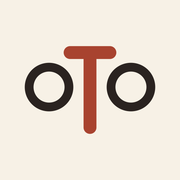
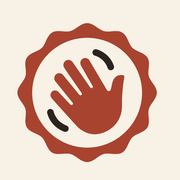
Update Thu 07/23/2026  4:03:54.19

Changed region(s): [[0.0833, 0.1111, 0.8889, 0.9167]]

diff --git a/index.html b/index.html
@@ -3,13 +3,13 @@
 <head>
 <meta charset="utf-8">
 <meta name="viewport" content="width=device-width, initial-scale=1">
-<title>oTo | Freedom for Them. Peace of Mind for You.</title>
-<meta name="description" content="oTo is one calm screen for someone you love in assisted living — they call family with a tap, tell you they're okay, and can always reach help. Family gets the check-ins and a nudge if a day goes quiet. No tracking, no subscription.">
-<link rel="canonical" href="https://otoshiyori.health/">
-<meta property="og:title" content="oTo — Freedom for them. Peace of mind for you.">
+<title>Wave | Freedom for Them. Peace of Mind for You.</title>
+<meta name="description" content="Wave is one calm screen for someone you love in assisted living — they call family with a tap, tell you they're okay, and can always reach help. Family gets the check-ins and a nudge if a day goes quiet. No tracking, no subscription.">
+<link rel="canonical" href="https://waveday.app/">
+<meta property="og:title" content="Wave — Freedom for them. Peace of mind for you.">
 <meta property="og:description" content="A dignity-first companion app for older adults. They call, they check in, they ask for help — on their terms. Family hears from them, free, with no subscription.">
-<meta property="og:image" content="https://otoshiyori.health/assets/img/og.png">
-<meta property="og:url" content="https://otoshiyori.health/">
+<meta property="og:image" content="https://waveday.app/assets/img/og.png">
+<meta property="og:url" content="https://waveday.app/">
 <meta property="og:type" content="website">
 <link rel="icon" type="image/png" sizes="32x32" href="/favicon-32x32.png">
 <meta name="theme-color" content="#f7f1e6">
@@ -19,15 +19,15 @@
 <link href="https://fonts.googleapis.com/css2?family=Outfit:wght@300;400;500;600;700;800;900&display=swap" rel="stylesheet">
 <script type="application/ld+json">
 { "@context": "https://schema.org", "@type": "FAQPage", "mainEntity": [
-  { "@type": "Question", "name": "Is oTo a monitoring app?",
-    "acceptedAnswer": { "@type": "Answer", "text": "No. oTo has no GPS, no location tracking, no camera watching, and no family dashboard of their activity. Everything family sees is something they sent — with one deliberate exception: if no check-in arrives by the hour the family chose, the circle is told that none arrived. Absence is the only thing oTo ever reports on its own." } },
+  { "@type": "Question", "name": "Is Wave a monitoring app?",
+    "acceptedAnswer": { "@type": "Answer", "text": "No. Wave has no GPS, no location tracking, no camera watching, and no family dashboard of their activity. Everything family sees is something they sent — with one deliberate exception: if no check-in arrives by the hour the family chose, the circle is told that none arrived. Absence is the only thing Wave ever reports on its own." } },
   { "@type": "Question", "name": "Does the family need the app too?",
-    "acceptedAnswer": { "@type": "Answer", "text": "Only the person who sets up the circle runs oTo on their own phone. Everyone else just confirms by email once and then receives notifications on any phone — no app, no account, no purchase." } },
-  { "@type": "Question", "name": "What does the oTo server store?",
+    "acceptedAnswer": { "@type": "Answer", "text": "Only the person who sets up the circle runs Wave on their own phone. Everyone else just confirms by email once and then receives notifications on any phone — no app, no account, no purchase." } },
+  { "@type": "Question", "name": "What does the Wave server store?",
     "acceptedAnswer": { "@type": "Answer", "text": "A circle id, hashed pairing tokens, their first name, timezone, the chosen worry window and check-in rhythm, family contact handles with each person's alert preference, and one timestamp of the last check-in. No location, no message contents, no contact books, no analytics." } },
   { "@type": "Question", "name": "Is there a subscription?",
-    "acceptedAnswer": { "@type": "Answer", "text": "No. oTo is a one-time purchase and the family channel — check-ins, missed check-in alerts and emergencies by notification or email — is included free, forever. Only optional text messages to relatives without smartphones are charged, at cost." } },
-  { "@type": "Question", "name": "Who is oTo for?",
+    "acceptedAnswer": { "@type": "Answer", "text": "No. Wave is a one-time purchase and the family channel — check-ins, missed check-in alerts and emergencies by notification or email — is included free, forever. Only optional text messages to relatives without smartphones are charged, at cost." } },
+  { "@type": "Question", "name": "Who is Wave for?",
     "acceptedAnswer": { "@type": "Answer", "text": "Older adults — especially in assisted living — and people with limited mobility or dexterity, plus the families who love them." } }
 ]}
 </script>
@@ -147,10 +147,6 @@
   .brand .bmark{width:36px;height:auto;flex:none;display:block}
   .foot-brand .brand .bmark{width:32px;height:auto}
   .hero .heromark{width:172px;height:auto;display:block;margin:0 auto 26px}
-  /* --- phone screenshots: warm-black bezel so cream shots read on cream --- */
-  .shotwrap{background:#2a2320;padding:9px;border-radius:30px;display:inline-block;line-height:0;
-    box-shadow:0 26px 60px -26px rgba(42,35,32,.55), 0 2px 0 rgba(255,255,255,.5) inset}
-  .shotimg{width:min(230px,72vw);height:auto;border-radius:22px;border:0;box-shadow:none;display:block}
 </style>
 </head>
 <body>
@@ -158,7 +154,7 @@
 <div class="announce">IN DEVELOPMENT · COMING TO GOOGLE PLAY · BUILT FOR SOMEONE WE LOVE</div>
 
 <nav><div class="navin">
-  <a class="brand" href="/"><svg class="bmark" viewBox="84 114 232 162" width="36" height="25" role="img" aria-label="oTo"><circle cx="130" cy="190" r="34" fill="none" stroke="#2a2320" stroke-width="15"/><circle cx="270" cy="190" r="34" fill="none" stroke="#2a2320" stroke-width="15"/><rect x="155" y="120" width="90" height="22" rx="11" fill="#a8432f"/><rect x="189" y="131" width="22" height="139" rx="11" fill="#a8432f"/></svg></a>
+  <a class="brand" href="/"><img class="bmark" src="/assets/img/mark.png" width="36" height="36" alt="Wave"></a>
   <div class="nav-r">
     <a href="#features">Features</a>
     <a href="#benefits">Why it's different</a>
@@ -168,8 +164,8 @@
 </div></nav>
 
 <header class="hero" id="top"><div class="wrap">
-  <svg class="heromark" viewBox="84 114 232 162" width="172" height="120" role="img" aria-label="oTo"><circle cx="130" cy="190" r="34" fill="none" stroke="#2a2320" stroke-width="15"/><circle cx="270" cy="190" r="34" fill="none" stroke="#2a2320" stroke-width="15"/><rect x="155" y="120" width="90" height="22" rx="11" fill="#a8432f"/><rect x="189" y="131" width="22" height="139" rx="11" fill="#a8432f"/></svg>
-  <div class="eyebrow">oTo · お年寄り</div>
+  <img class="heromark" src="/assets/img/mark.png" width="172" height="172" alt="Wave">
+  <div class="eyebrow">Wave · Check-in</div>
   <h1>Freedom for them. <em>Peace of mind</em> for you.</h1>
   <p class="sub">One calm screen for someone you love in assisted living. They call family with a tap, tell you they're okay, see their day, and can always reach help. You get the circle that hears them — and a nudge if a day goes quiet. No tracking, no subscription, ever.</p>
   <div class="cta"><span class="chip-soon"><i></i>In development — coming to Google Play</span></div>
@@ -200,7 +196,7 @@
       <h2>Family is one tap away.</h2>
       <p>No dialer, no contact list to navigate. Tap Daniel's face and it rings Daniel. Photos, never menus — built for older eyes and less steady hands.</p>
     </div>
-    <div class="fphone"><button class="shot-link" type="button" data-full="/assets/img/shot-home.webp" aria-label="Enlarge screenshot: oTo home screen: family call faces, I'm okay button, today's reminders"><span class="shotwrap"><img class="shotimg reveal-slide" src="/assets/img/shot-home.png" srcset="/assets/img/shot-home.webp" alt="oTo home screen: family call faces, I'm okay button, today's reminders" loading="lazy" width="460" height="818"></span></button></div>
+    <div class="fphone"><button class="shot-link" type="button" data-full="/assets/img/shot-home.webp" aria-label="Enlarge screenshot: Wave home screen: family call faces, I'm okay button, today's reminders"><img class="shotimg" src="/assets/img/shot-home.png" srcset="/assets/img/shot-home.webp" alt="Wave home screen: family call faces, I'm okay button, today's reminders" loading="lazy" width="460" height="818"></button></div>
   </div>
 
   <div class="feature flip reveal">
@@ -209,7 +205,7 @@
       <h2>They send it. You breathe.</h2>
       <p>One green tap and the family knows they're fine. They give the reassurance — they aren't tracked into it. That's the whole idea: they initiate, family receives.</p>
     </div>
-    <div class="fphone"><button class="shot-link" type="button" data-full="/assets/img/shot-home-sent.webp" aria-label="Enlarge screenshot: The I'm okay check-in sent — family knows they're fine"><span class="shotwrap"><img class="shotimg reveal-slide" src="/assets/img/shot-home-sent.png" srcset="/assets/img/shot-home-sent.webp" alt="The I'm okay check-in sent — family knows they're fine" loading="lazy" width="460" height="818"></span></button></div>
+    <div class="fphone"><button class="shot-link" type="button" data-full="/assets/img/shot-home-sent.webp" aria-label="Enlarge screenshot: The I'm okay check-in sent — family knows they're fine"><img class="shotimg" src="/assets/img/shot-home-sent.png" srcset="/assets/img/shot-home-sent.webp" alt="The I'm okay check-in sent — family knows they're fine" loading="lazy" width="460" height="818"></button></div>
   </div>
 
   <div class="feature reveal">
@@ -218,7 +214,7 @@
       <h2>Their day, on their terms.</h2>
       <p>Morning pills, tea with Margaret — gentle reminders under their control. Family can add to the day, but never invisibly: anything added is clearly labeled and can always be removed.</p>
     </div>
-    <div class="fphone"><button class="shot-link" type="button" data-full="/assets/img/shot-calling.webp" aria-label="Enlarge screenshot: Calling Daniel — one tap native call"><span class="shotwrap"><img class="shotimg reveal-slide" src="/assets/img/shot-calling.png" srcset="/assets/img/shot-calling.webp" alt="Calling Daniel — one tap native call" loading="lazy" width="460" height="818"></span></button></div>
+    <div class="fphone"><button class="shot-link" type="button" data-full="/assets/img/shot-calling.webp" aria-label="Enlarge screenshot: Calling Daniel — one tap native call"><img class="shotimg" src="/assets/img/shot-calling.png" srcset="/assets/img/shot-calling.webp" alt="Calling Daniel — one tap native call" loading="lazy" width="460" height="818"></button></div>
   </div>
 
   <div class="feature flip reveal">
@@ -227,7 +223,7 @@
       <h2>Help that can't misfire.</h2>
       <p>One clear button reaches a real person. A true emergency call is there too — always behind a calm confirm, so a stray tap never dials an ambulance. Real calls, through the phone's own dialer.</p>
     </div>
-    <div class="fphone"><button class="shot-link" type="button" data-full="/assets/img/shot-emergency.webp" aria-label="Enlarge screenshot: Emergency call confirmation screen — yes, call now, or cancel"><span class="shotwrap"><img class="shotimg reveal-slide" src="/assets/img/shot-emergency.png" srcset="/assets/img/shot-emergency.webp" alt="Emergency call confirmation screen — yes, call now, or cancel" loading="lazy" width="460" height="818"></span></button></div>
+    <div class="fphone"><button class="shot-link" type="button" data-full="/assets/img/shot-emergency.webp" aria-label="Enlarge screenshot: Emergency call confirmation screen — yes, call now, or cancel"><img class="shotimg" src="/assets/img/shot-emergency.png" srcset="/assets/img/shot-emergency.webp" alt="Emergency call confirmation screen — yes, call now, or cancel" loading="lazy" width="460" height="818"></button></div>
   </div>
 </div></section>
 
@@ -235,7 +231,7 @@
   <div class="sec-head reveal">
     <span class="eyebrow">The family circle</span>
     <h2>Two phones. One quiet thread.</h2>
-    <p>oTo runs on their phone and on yours. Theirs is the warm home screen. Yours sets up the circle — up to six people who hear from them, and hear if a day goes quiet.</p>
+    <p>Wave runs on their phone and on yours. Theirs is the warm home screen. Yours sets up the circle — up to six people who hear from them, and hear if a day goes quiet.</p>
   </div>
   <div class="steps">
     <div class="step reveal">
@@ -264,11 +260,11 @@
   <div class="sec-head reveal">
     <span class="eyebrow">Why it's different</span>
     <h2>Dignity is the product.</h2>
-    <p>Most "senior safety" apps quietly become surveillance the family loves and the person resents. oTo is built the other way up.</p>
+    <p>Most "senior safety" apps quietly become surveillance the family loves and the person resents. Wave is built the other way up.</p>
   </div>
   <div class="bens">
     <div class="ben reveal"><svg class="ico" viewBox="0 0 24 24" fill="none" stroke="currentColor" stroke-width="1.6" stroke-linecap="round" stroke-linejoin="round"><path d="M12 19V6"/><path d="M6.5 11.5 12 6l5.5 5.5"/><circle cx="12" cy="21" r="1.4"/></svg><h3>They initiate</h3><p>Every signal the family sees is one they sent themselves — the only exception is word that a quiet day stayed quiet. The safety net stays invisible until it's truly needed.</p></div>
-    <div class="ben reveal"><svg class="ico" viewBox="0 0 24 24" fill="none" stroke="currentColor" stroke-width="1.6" stroke-linecap="round" stroke-linejoin="round"><path d="M2 12s3.5-7 10-7 10 7 10 7-3.5 7-10 7S2 12 2 12z"/><path d="M4 4l16 16"/></svg><h3>No tracking</h3><p>No GPS, no location history, no camera watching, no activity dashboard. If it would feel like being watched, it isn't in oTo.</p></div>
+    <div class="ben reveal"><svg class="ico" viewBox="0 0 24 24" fill="none" stroke="currentColor" stroke-width="1.6" stroke-linecap="round" stroke-linejoin="round"><path d="M2 12s3.5-7 10-7 10 7 10 7-3.5 7-10 7S2 12 2 12z"/><path d="M4 4l16 16"/></svg><h3>No tracking</h3><p>No GPS, no location history, no camera watching, no activity dashboard. If it would feel like being watched, it isn't in Wave.</p></div>
     <div class="ben reveal"><svg class="ico" viewBox="0 0 24 24" fill="none" stroke="currentColor" stroke-width="1.6" stroke-linecap="round" stroke-linejoin="round"><path d="M3 7V5h10v2"/><path d="M8 5v14"/><path d="M5 19h6"/><path d="M15 12v-1h6v1"/><path d="M18 11v8"/><path d="M16 19h4"/></svg><h3>Big &amp; readable</h3><p>Large type, generous targets, high contrast, and lots of air. Built for older eyes and hands that aren't as steady as they were.</p></div>
     <div class="ben reveal"><svg class="ico" viewBox="0 0 24 24" fill="none" stroke="currentColor" stroke-width="1.6" stroke-linecap="round" stroke-linejoin="round"><path d="M5 4h4l2 5-2.5 1.5a11 11 0 0 0 5 5L15 13l5 2v4a1 1 0 0 1-1 1A16 16 0 0 1 4 5a1 1 0 0 1 1-1z"/></svg><h3>Real phone calls</h3><p>Calls go through the phone's own dialer — reliable, familiar, and they work even when the app doesn't.</p></div>
     <div class="ben reveal"><svg class="ico" viewBox="0 0 24 24" fill="none" stroke="currentColor" stroke-width="1.6" stroke-linecap="round" stroke-linejoin="round"><circle cx="9" cy="8" r="3"/><path d="M3 20a6 6 0 0 1 12 0"/><circle cx="17.5" cy="10" r="2.5"/><path d="M15 20a5 5 0 0 1 6.5-4.8"/></svg><h3>Family stays close</h3><p>Up to six people, each one having said yes by email first. What they get is a gentle "they're okay today" — and a nudge on a quiet morning. Peace of mind, not a monitoring console.</p></div>
@@ -281,27 +277,27 @@
     <span class="eyebrow">FAQ</span>
     <h2>Fair questions.</h2>
   </div>
-  <details class="faq"><summary>Is oTo a monitoring app?<span class="fx" aria-hidden="true"></span></summary><p>No. There's no GPS, no location tracking, and no dashboard of their activity. Everything family sees is something they sent — with one deliberate exception, and we'd rather name it than hide it: if no check-in has arrived by the hour you chose, the circle is told that none arrived. Absence is the only thing oTo ever reports on its own, and they know it works that way.</p></details>
-  <details class="faq"><summary>Does the family need the app too?<span class="fx" aria-hidden="true"></span></summary><p>Only the person setting up the circle runs oTo on their own phone. Everyone else confirms by email once, then gets notifications on whatever phone they already have — no app to install, no account, nothing to buy.</p></details>
-  <details class="faq"><summary>What does the oTo server store?<span class="fx" aria-hidden="true"></span></summary><p>Deliberately almost nothing: a circle id, hashed pairing tokens, their first name, timezone, the worry window and check-in rhythm you chose, family contact handles with each person's alert preference, and a single timestamp of the last check-in — overwritten, not a history. No location, no message contents, no contact books, no analytics. The full list is on our <a class="link" href="/privacy.html" style="color:var(--green)">privacy page</a>, published word for word.</p></details>
-  <details class="faq"><summary>Is there a subscription?<span class="fx" aria-hidden="true"></span></summary><p>No, and there won't be. oTo is bought once, and the family channel — check-ins, quiet-morning nudges, emergencies — is included free, forever. The only paid extra is text messages for relatives without a smartphone, passed through at what they cost us. An older adult talking to their family should never be metered.</p></details>
+  <details class="faq"><summary>Is Wave a monitoring app?<span class="fx" aria-hidden="true"></span></summary><p>No. There's no GPS, no location tracking, and no dashboard of their activity. Everything family sees is something they sent — with one deliberate exception, and we'd rather name it than hide it: if no check-in has arrived by the hour you chose, the circle is told that none arrived. Absence is the only thing Wave ever reports on its own, and they know it works that way.</p></details>
+  <details class="faq"><summary>Does the family need the app too?<span class="fx" aria-hidden="true"></span></summary><p>Only the person setting up the circle runs Wave on their own phone. Everyone else confirms by email once, then gets notifications on whatever phone they already have — no app to install, no account, nothing to buy.</p></details>
+  <details class="faq"><summary>What does the Wave server store?<span class="fx" aria-hidden="true"></span></summary><p>Deliberately almost nothing: a circle id, hashed pairing tokens, their first name, timezone, the worry window and check-in rhythm you chose, family contact handles with each person's alert preference, and a single timestamp of the last check-in — overwritten, not a history. No location, no message contents, no contact books, no analytics. The full list is on our <a class="link" href="/privacy.html" style="color:var(--green)">privacy page</a>, published word for word.</p></details>
+  <details class="faq"><summary>Is there a subscription?<span class="fx" aria-hidden="true"></span></summary><p>No, and there won't be. Wave is bought once, and the family channel — check-ins, quiet-morning nudges, emergencies — is included free, forever. The only paid extra is text messages for relatives without a smartphone, passed through at what they cost us. An older adult talking to their family should never be metered.</p></details>
   <details class="faq"><summary>Who sets up their schedule?<span class="fx" aria-hidden="true"></span></summary><p>They own it. Family can help — repeating things like medication get set up once, together — and anything family adds appears clearly labeled and can be removed. Nothing ever changes behind their back.</p></details>
   <details class="faq"><summary>What about real emergencies?<span class="fx" aria-hidden="true"></span></summary><p>The help button reaches a real person — family or the facility's nurse line. A true emergency-services call is there too, always behind a calm "are you sure?" confirm so an accidental tap never dials an ambulance.</p></details>
-  <details class="faq"><summary>Who is oTo for?<span class="fx" aria-hidden="true"></span></summary><p>Older adults — especially in assisted living — and people with limited mobility or dexterity, plus the families who love them. "Otoshiyori" (お年寄り) is Japanese for the elderly.</p></details>
-  <details class="faq"><summary>When can I get it?<span class="fx" aria-hidden="true"></span></summary><p>oTo is in development and will launch on Google Play. Write to <a href="mailto:support@ubersoft.pro" style="color:var(--green)">support@ubersoft.pro</a> and we'll tell you the moment it's ready.</p></details>
+  <details class="faq"><summary>Who is Wave for?<span class="fx" aria-hidden="true"></span></summary><p>Older adults — especially in assisted living — and people with limited mobility or dexterity, plus the families who love them. The name says it: the check-in is a wave — a simple hello that says I'm okay.</p></details>
+  <details class="faq"><summary>When can I get it?<span class="fx" aria-hidden="true"></span></summary><p>Wave is in development and will launch on Google Play. Write to <a href="mailto:support@ubersoft.pro" style="color:var(--green)">support@ubersoft.pro</a> and we'll tell you the moment it's ready.</p></details>
 </div></section>
 
 <section class="download"><div class="wrap">
-  <span class="eyebrow">Get oTo</span>
+  <span class="eyebrow">Get Wave</span>
   <h2>Coming to Google Play.</h2>
-  <p>oTo is being built right now — for a real grandparent, in a real assisted-living home. Want to know when it's ready?</p>
-  <div class="cta"><a class="nav-btn" href="mailto:support@ubersoft.pro?subject=Tell%20me%20when%20Oto%20is%20ready" style="padding:14px 26px">Tell me when it's ready</a></div>
+  <p>Wave is being built right now — for a real grandparent, in a real assisted-living home. Want to know when it's ready?</p>
+  <div class="cta"><a class="nav-btn" href="mailto:support@ubersoft.pro?subject=Tell%20me%20when%20Wave%20is%20ready" style="padding:14px 26px">Tell me when it's ready</a></div>
 </div></section>
 
 <footer><div class="wrap">
   <div class="foot-grid">
     <div class="foot-brand">
-      <a class="brand" href="/"><svg class="bmark" viewBox="84 114 232 162" width="36" height="25" role="img" aria-label="oTo"><circle cx="130" cy="190" r="34" fill="none" stroke="#2a2320" stroke-width="15"/><circle cx="270" cy="190" r="34" fill="none" stroke="#2a2320" stroke-width="15"/><rect x="155" y="120" width="90" height="22" rx="11" fill="#a8432f"/><rect x="189" y="131" width="22" height="139" rx="11" fill="#a8432f"/></svg></a>
+      <a class="brand" href="/"><img class="bmark" src="/assets/img/mark.png" width="36" height="36" alt="Wave"></a>
       <p>One calm screen for someone you love. They initiate, family receives — freedom for them, peace of mind for you.</p>
     </div>
     <div class="foot-col">
@@ -348,6 +344,6 @@
     document.addEventListener('keydown',function(e){if(e.key==='Escape'&&lb.classList.contains('open'))close();});
   })();</script>
 
-<script data-goatcounter="https://otoshiyori.goatcounter.com/count" async src="//gc.zgo.at/count.js"></script>
+<script data-goatcounter="https://waveday.goatcounter.com/count" async src="//gc.zgo.at/count.js"></script>
 </body>
 </html>

diff --git a/privacy.html b/privacy.html
@@ -3,9 +3,9 @@
 <head>
 <meta charset="utf-8">
 <meta name="viewport" content="width=device-width, initial-scale=1">
-<title>Privacy Policy | oTo</title>
-<meta name="description" content="oTo's privacy policy: no tracking, no location, no surveillance — and the complete, published list of what the family-circle server stores.">
-<link rel="canonical" href="https://otoshiyori.health/privacy.html">
+<title>Privacy Policy | Wave</title>
+<meta name="description" content="Wave's privacy policy: no tracking, no location, no surveillance — and the complete, published list of what the family-circle server stores.">
+<link rel="canonical" href="https://waveday.app/privacy.html">
 <link rel="icon" href="/favicon.ico" sizes="16x16 32x32 48x48">
 <link rel="icon" type="image/png" sizes="32x32" href="/favicon-32x32.png">
 <link rel="apple-touch-icon" href="/apple-touch-icon.png">
@@ -66,15 +66,11 @@
   .brand .bmark{width:36px;height:auto;flex:none;display:block}
   .foot-brand .brand .bmark{width:32px;height:auto}
   .hero .heromark{width:172px;height:auto;display:block;margin:0 auto 26px}
-  /* --- phone screenshots: warm-black bezel so cream shots read on cream --- */
-  .shotwrap{background:#2a2320;padding:9px;border-radius:30px;display:inline-block;line-height:0;
-    box-shadow:0 26px 60px -26px rgba(42,35,32,.55), 0 2px 0 rgba(255,255,255,.5) inset}
-  .shotimg{width:min(230px,72vw);height:auto;border-radius:22px;border:0;box-shadow:none;display:block}
 </style>
 </head>
 <body>
 <nav><div class="navin">
-  <a class="brand" href="/"><svg class="bmark" viewBox="84 114 232 162" width="36" height="25" role="img" aria-label="oTo"><circle cx="130" cy="190" r="34" fill="none" stroke="#2a2320" stroke-width="15"/><circle cx="270" cy="190" r="34" fill="none" stroke="#2a2320" stroke-width="15"/><rect x="155" y="120" width="90" height="22" rx="11" fill="#a8432f"/><rect x="189" y="131" width="22" height="139" rx="11" fill="#a8432f"/></svg></a>
+  <a class="brand" href="/"><img class="bmark" src="/assets/img/mark.png" width="36" height="36" alt="Wave"></a>
   <div class="nav-r">
     <a href="/#features">Features</a>
     <a href="/#benefits">Why it's different</a>
@@ -86,14 +82,14 @@
   <div class="wrap">
     <span class="eyebrow">Legal</span>
     <h1>Privacy Policy</h1>
-    <div class="meta">Effective date: <time datetime="2026-07-21">July 21, 2026</time> · Applies to the oTo app, the family circle, and otoshiyori.health</div>
+    <div class="meta">Effective date: <time datetime="2026-07-21">July 21, 2026</time> · Applies to the Wave app, the family circle, and waveday.app</div>
   </div>
 </header>
 
 <main class="wrap">
   <div class="legal">
 
-    <p class="lede">oTo (the "app") is built and published by Ubersoft ("we," "us," "our") on one rule: <b>they initiate, family receives.</b> The app does not track its user — no location, no monitoring, no surveillance. Everything a family member sees is something they sent — except one message the family can switch on: word that a check-in did not arrive.</p>
+    <p class="lede">Wave (the "app") is built and published by Ubersoft ("we," "us," "our") on one rule: <b>they initiate, family receives.</b> The app does not track its user — no location, no monitoring, no surveillance. Everything a family member sees is something they sent — except one message the family can switch on: word that a check-in did not arrive.</p>
 
     <div class="summary">
       <div class="st">In plain terms</div>
@@ -105,7 +101,7 @@
       </ul>
     </div>
 
-    <h2><span class="n">01</span> What oTo stores on the device</h2>
+    <h2><span class="n">01</span> What Wave stores on the device</h2>
     <ul class="body-list">
       <li>Their contacts (names, photos, phone numbers), their schedule, and their preferences — stored on the device.</li>
     </ul>
@@ -115,16 +111,16 @@
     <ul class="body-list">
       <li><b>Check-ins.</b> "I'm okay today" — sent because they tapped the button.</li>
       <li><b>Help requests.</b> When they confirm an emergency, the circle is told they pressed for help and called emergency services.</li>
-      <li><b>Missed check-ins.</b> If no check-in has arrived by the hour the family chose, the circle is told that none arrived. This is the one message oTo sends without them acting, and it is triggered by <i>absence</i> — never by watching them. It can be switched off.</li>
+      <li><b>Missed check-ins.</b> If no check-in has arrived by the hour the family chose, the circle is told that none arrived. This is the one message Wave sends without them acting, and it is triggered by <i>absence</i> — never by watching them. It can be switched off.</li>
     </ul>
     <p>Nothing else is transmitted. Messages carry their first name and what happened — never their location, and never the contents of anything else in the app.</p>
 
-    <h2><span class="n">03</span> What the oTo server stores</h2>
+    <h2><span class="n">03</span> What the Wave server stores</h2>
     <p>The family channel runs on a deliberately tiny server. This is the complete list of what it holds:</p>
     <ul class="body-list">
       <li>A circle id, and hashed pairing and device tokens.</li>
       <li>Their first name (so messages can say who they're from), timezone, the chosen worry window, and the check-in rhythm.</li>
-      <li>Family contact handles (phone or email) and each person's alert preferences, each verified before any message is sent — this exists to stop oTo from being used to message people who never agreed.</li>
+      <li>Family contact handles (phone or email) and each person's alert preferences, each verified before any message is sent — this exists to stop Wave from being used to message people who never agreed.</li>
       <li>A single <i>last check-in</i> timestamp, overwritten each time. Not a history.</li>
     </ul>
     <p>Nothing else: no location, no message bodies, no contact books, no analytics events. All of the app's own data — faces, schedule, settings — stays on their phone.</p>
@@ -132,7 +128,7 @@
     <h2><span class="n">04</span> Family members and consent</h2>
     <p>A circle holds up to six people. Each is added by name and contact handle, then receives one email and confirms from their own inbox before anything is ever sent to them. Declining deletes their address immediately. Family members need no account, no app, and no purchase, and can remove themselves at any time.</p>
 
-    <h2><span class="n">05</span> What oTo never collects</h2>
+    <h2><span class="n">05</span> What Wave never collects</h2>
     <ul class="body-list">
       <li>Location, movement, or GPS data of any kind.</li>
       <li>Ambient audio, video, photos, or screen activity.</li>
@@ -140,13 +136,13 @@
     </ul>
 
     <h2><span class="n">06</span> Calls and messages</h2>
-    <p>Calls placed from oTo go through the phone's own dialer or calling apps. oTo does not record, route, or listen to calls. Circle messages are delivered by web notification or email; optional text messages for relatives without a smartphone are sent through a carrier gateway, which sees only the number and the message text.</p>
+    <p>Calls placed from Wave go through the phone's own dialer or calling apps. Wave does not record, route, or listen to calls. Circle messages are delivered by web notification or email; optional text messages for relatives without a smartphone are sent through a carrier gateway, which sees only the number and the message text.</p>
 
     <h2><span class="n">07</span> This website</h2>
-    <p>otoshiyori.health uses privacy-friendly, cookieless page counting (GoatCounter) to see how many people visit. No personal profiles, no cross-site tracking, no ads.</p>
+    <p>waveday.app uses privacy-friendly, cookieless page counting (GoatCounter) to see how many people visit. No personal profiles, no cross-site tracking, no ads.</p>
 
     <h2><span class="n">08</span> Changes to this policy</h2>
-    <p>oTo is in active development; this policy will be updated as the app takes final shape, and material changes will be noted here with a new effective date.</p>
+    <p>Wave is in active development; this policy will be updated as the app takes final shape, and material changes will be noted here with a new effective date.</p>
 
     <h2><span class="n">09</span> Contact</h2>
     <p>Questions about privacy? Reach us at <a class="link" href="mailto:support@ubersoft.pro">support@ubersoft.pro</a>.</p>
@@ -157,7 +153,7 @@
 <footer><div class="wrap">
   <div class="foot-grid">
     <div class="foot-brand">
-      <a class="brand" href="/"><svg class="bmark" viewBox="84 114 232 162" width="36" height="25" role="img" aria-label="oTo"><circle cx="130" cy="190" r="34" fill="none" stroke="#2a2320" stroke-width="15"/><circle cx="270" cy="190" r="34" fill="none" stroke="#2a2320" stroke-width="15"/><rect x="155" y="120" width="90" height="22" rx="11" fill="#a8432f"/><rect x="189" y="131" width="22" height="139" rx="11" fill="#a8432f"/></svg></a>
+      <a class="brand" href="/"><img class="bmark" src="/assets/img/mark.png" width="36" height="36" alt="Wave"></a>
       <p>One calm screen for someone you love. They initiate, family receives — freedom for them, peace of mind for you.</p>
     </div>
     <div class="foot-col">
@@ -182,6 +178,6 @@
   </p>
 </div></footer>
 <script>(function(){var el=document.getElementById('cpyear');if(el){var s=2026,n=new Date().getFullYear();el.textContent=(n>s)?(s+'–'+n):(''+s);}})();</script>
-<script data-goatcounter="https://otoshiyori.goatcounter.com/count" async src="//gc.zgo.at/count.js"></script>
+<script data-goatcounter="https://waveday.goatcounter.com/count" async src="//gc.zgo.at/count.js"></script>
 </body>
 </html>

diff --git a/download.html b/download.html
@@ -3,9 +3,9 @@
 <head>
 <meta charset="utf-8">
 <meta name="viewport" content="width=device-width, initial-scale=1">
-<title>Get oTo | Coming to Google Play</title>
-<meta name="description" content="oTo is in development and coming to Google Play. Ask us to tell you when it's ready.">
-<link rel="canonical" href="https://otoshiyori.health/download.html">
+<title>Get Wave | Coming to Google Play</title>
+<meta name="description" content="Wave is in development and coming to Google Play. Ask us to tell you when it's ready.">
+<link rel="canonical" href="https://waveday.app/download.html">
 <link rel="icon" type="image/png" sizes="32x32" href="/favicon-32x32.png">
 <meta name="theme-color" content="#f7f1e6">
 <link rel="apple-touch-icon" href="/apple-touch-icon.png">
@@ -47,15 +47,11 @@
   .brand .bmark{width:36px;height:auto;flex:none;display:block}
   .foot-brand .brand .bmark{width:32px;height:auto}
   .hero .heromark{width:172px;height:auto;display:block;margin:0 auto 26px}
-  /* --- phone screenshots: warm-black bezel so cream shots read on cream --- */
-  .shotwrap{background:#2a2320;padding:9px;border-radius:30px;display:inline-block;line-height:0;
-    box-shadow:0 26px 60px -26px rgba(42,35,32,.55), 0 2px 0 rgba(255,255,255,.5) inset}
-  .shotimg{width:min(230px,72vw);height:auto;border-radius:22px;border:0;box-shadow:none;display:block}
 </style>
 </head>
 <body>
 <nav><div class="navin">
-  <a class="brand" href="/"><svg class="bmark" viewBox="84 114 232 162" width="36" height="25" role="img" aria-label="oTo"><circle cx="130" cy="190" r="34" fill="none" stroke="#2a2320" stroke-width="15"/><circle cx="270" cy="190" r="34" fill="none" stroke="#2a2320" stroke-width="15"/><rect x="155" y="120" width="90" height="22" rx="11" fill="#a8432f"/><rect x="189" y="131" width="22" height="139" rx="11" fill="#a8432f"/></svg></a>
+  <a class="brand" href="/"><img class="bmark" src="/assets/img/mark.png" width="36" height="36" alt="Wave"></a>
   <div class="nav-r">
     <a href="/#features">Features</a>
     <a href="/#benefits">Why it's different</a>
@@ -64,18 +60,18 @@
 </div></nav>
 
 <main>
-  <svg class="heromark" viewBox="84 114 232 162" width="172" height="120" role="img" aria-label="oTo"><circle cx="130" cy="190" r="34" fill="none" stroke="#2a2320" stroke-width="15"/><circle cx="270" cy="190" r="34" fill="none" stroke="#2a2320" stroke-width="15"/><rect x="155" y="120" width="90" height="22" rx="11" fill="#a8432f"/><rect x="189" y="131" width="22" height="139" rx="11" fill="#a8432f"/></svg>
-  <div class="eyebrow">Get oTo</div>
+  <img class="heromark" src="/assets/img/mark.png" width="172" height="172" alt="Wave">
+  <div class="eyebrow">Get Wave</div>
   <h1>Coming to Google Play.</h1>
-  <p class="sub">oTo is in development — being built for a real grandparent in a real assisted-living home, and for everyone like them. When it's ready, it will be here.</p>
+  <p class="sub">Wave is in development — being built for a real grandparent in a real assisted-living home, and for everyone like them. When it's ready, it will be here.</p>
   <div><span class="chip-soon"><i></i>In development</span></div>
-  <div><a class="btn" href="mailto:support@ubersoft.pro?subject=Tell%20me%20when%20Oto%20is%20ready">Tell me when it's ready</a></div>
+  <div><a class="btn" href="mailto:support@ubersoft.pro?subject=Tell%20me%20when%20Wave%20is%20ready">Tell me when it's ready</a></div>
 </main>
 
 <footer><div class="wrap">
   <div class="foot-grid">
     <div class="foot-brand">
-      <a class="brand" href="/"><svg class="bmark" viewBox="84 114 232 162" width="36" height="25" role="img" aria-label="oTo"><circle cx="130" cy="190" r="34" fill="none" stroke="#2a2320" stroke-width="15"/><circle cx="270" cy="190" r="34" fill="none" stroke="#2a2320" stroke-width="15"/><rect x="155" y="120" width="90" height="22" rx="11" fill="#a8432f"/><rect x="189" y="131" width="22" height="139" rx="11" fill="#a8432f"/></svg></a>
+      <a class="brand" href="/"><img class="bmark" src="/assets/img/mark.png" width="36" height="36" alt="Wave"></a>
       <p>One calm screen for someone you love. They initiate, family receives — freedom for them, peace of mind for you.</p>
     </div>
     <div class="foot-col">
@@ -100,6 +96,6 @@
   </p>
 </div></footer>
 <script>document.getElementById('cpyear').textContent = new Date().getFullYear();</script>
-<script data-goatcounter="https://otoshiyori.goatcounter.com/count" async src="//gc.zgo.at/count.js"></script>
+<script data-goatcounter="https://waveday.goatcounter.com/count" async src="//gc.zgo.at/count.js"></script>
 </body>
 </html>

diff --git a/404.html b/404.html
@@ -3,7 +3,7 @@
 <head>
 <meta charset="utf-8">
 <meta name="viewport" content="width=device-width, initial-scale=1">
-<title>404 | oTo</title>
+<title>404 | Wave</title>
 <meta name="robots" content="noindex">
 <link rel="icon" href="/favicon.ico" sizes="any">
 <link rel="icon" type="image/png" sizes="32x32" href="/favicon-32x32.png">
@@ -31,21 +31,17 @@
   .brand .bmark{width:36px;height:auto;flex:none;display:block}
   .foot-brand .brand .bmark{width:32px;height:auto}
   .hero .heromark{width:172px;height:auto;display:block;margin:0 auto 26px}
-  /* --- phone screenshots: warm-black bezel so cream shots read on cream --- */
-  .shotwrap{background:#2a2320;padding:9px;border-radius:30px;display:inline-block;line-height:0;
-    box-shadow:0 26px 60px -26px rgba(42,35,32,.55), 0 2px 0 rgba(255,255,255,.5) inset}
-  .shotimg{width:min(230px,72vw);height:auto;border-radius:22px;border:0;box-shadow:none;display:block}
 </style>
 </head>
 <body>
   <main>
-    <div class="eyebrow" style="display:flex;align-items:center;justify-content:center;gap:8px"><svg class="" viewBox="84 114 232 162" width="30" height="21" role="img" aria-label="oTo"><circle cx="130" cy="190" r="34" fill="none" stroke="#2a2320" stroke-width="15"/><circle cx="270" cy="190" r="34" fill="none" stroke="#2a2320" stroke-width="15"/><rect x="155" y="120" width="90" height="22" rx="11" fill="#a8432f"/><rect x="189" y="131" width="22" height="139" rx="11" fill="#a8432f"/></svg></div>
+    <div class="eyebrow" style="display:flex;align-items:center;justify-content:center;gap:8px"><img class="" src="/assets/img/mark.png" width="30" height="30" alt="Wave"></div>
     <div class="n">404</div>
     <h1>This page isn't on the schedule.</h1>
     <p>It may have moved, or it never existed. Everything else is right where you left it.</p>
     <a class="btn" href="/">Back home</a>
   </main>
-  <script data-goatcounter="https://otoshiyori.goatcounter.com/count"
+  <script data-goatcounter="https://waveday.goatcounter.com/count"
           async src="//gc.zgo.at/count.js"></script>
 </body>
 </html>
